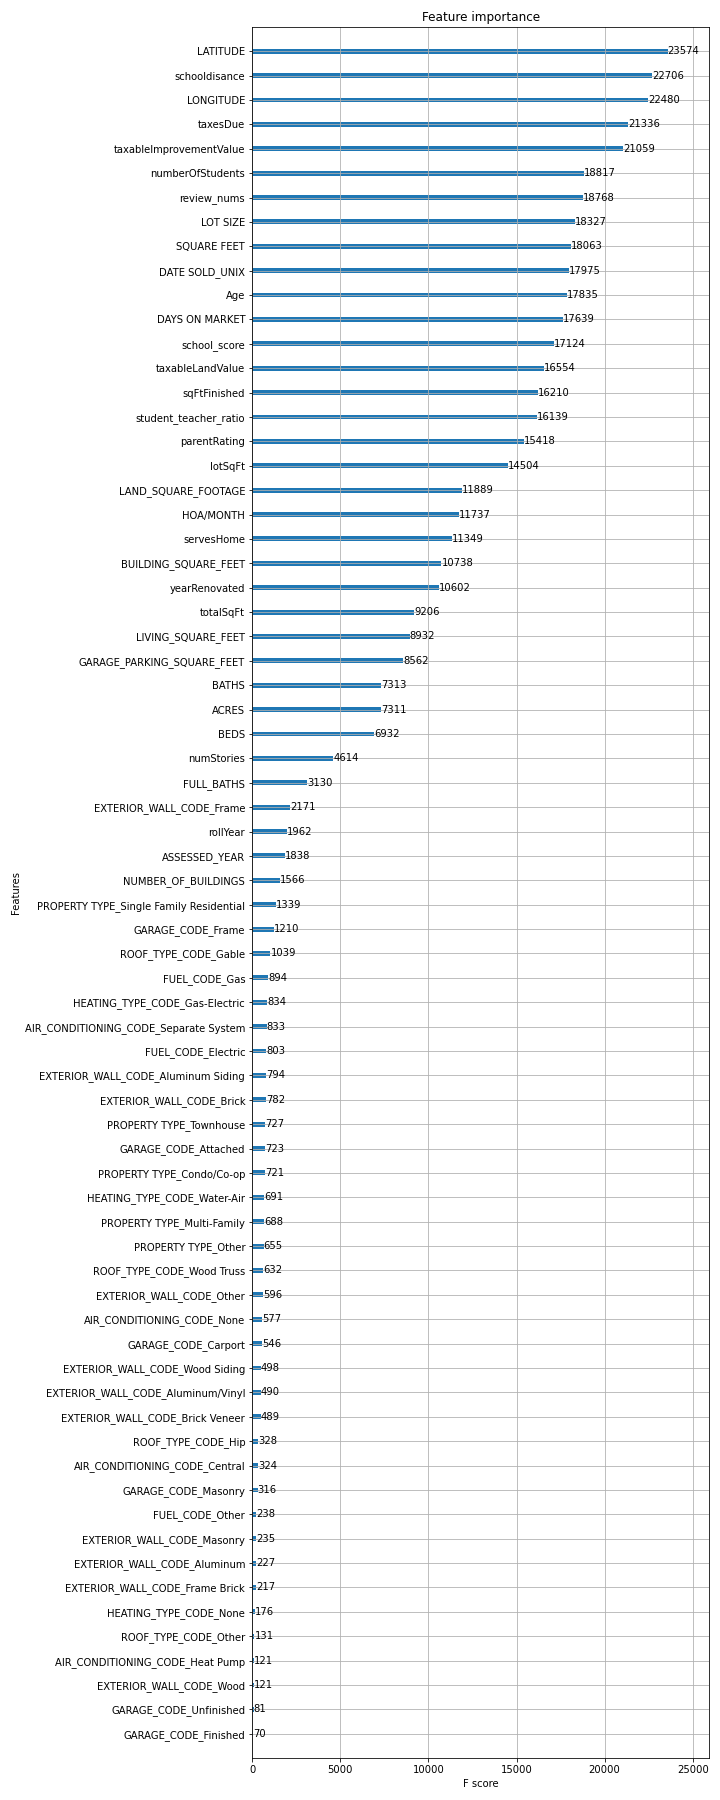
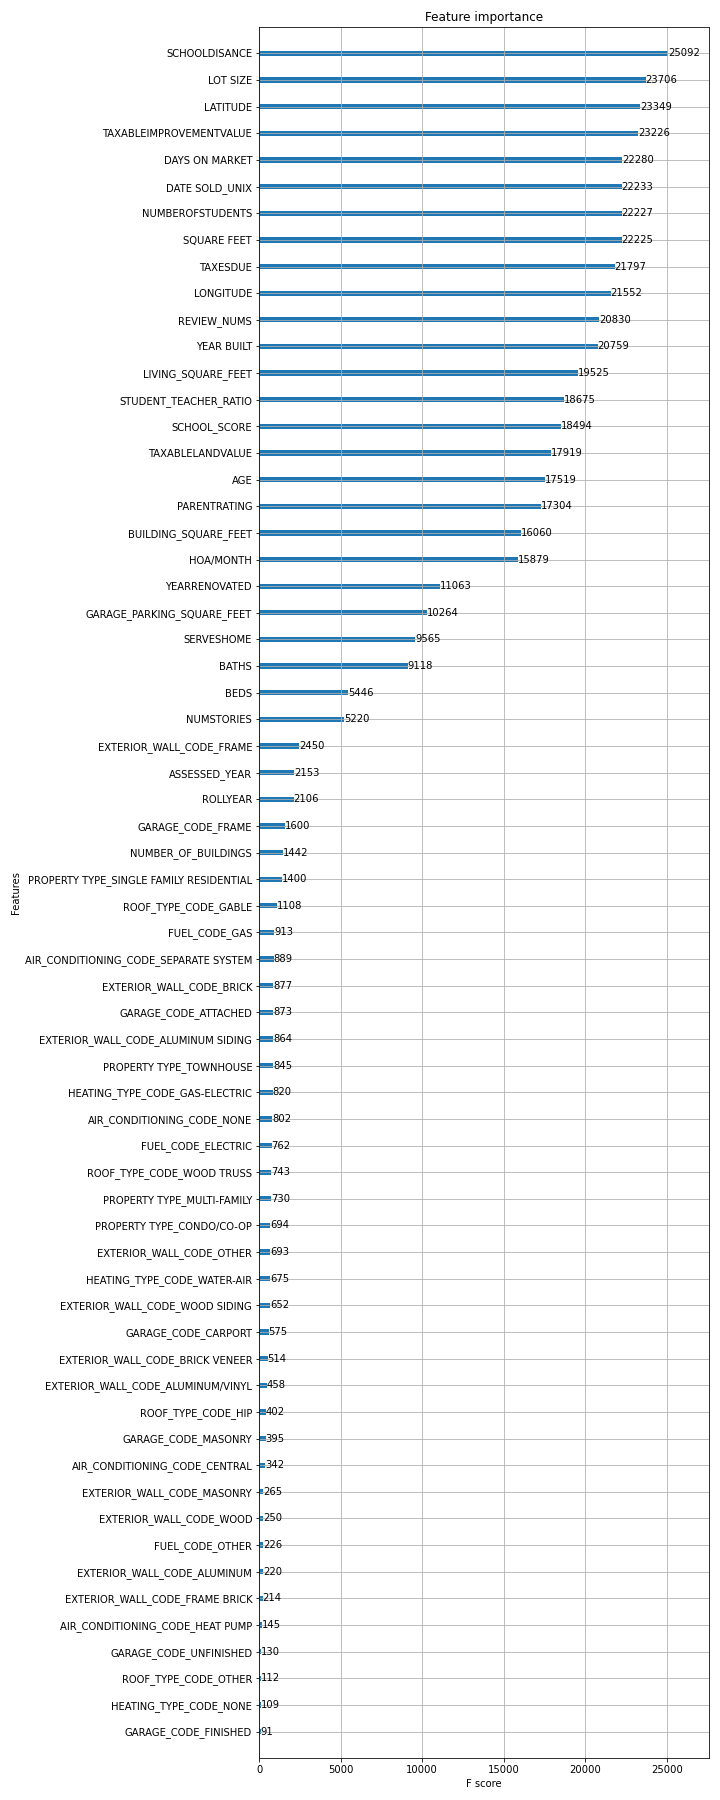
updated model

Changed region(s): [[0.0611, 0.0, 0.9778, 0.9956], [0.1222, 0.3422, 0.1528, 0.3733]]

diff --git a/ML Model.py b/ML Model.py
@@ -20,11 +20,11 @@ from sklearn.feature_selection._base import SelectorMixin
 from sklearn.feature_extraction.text import _VectorizerMixin
 
 from functions import get_feature_names
-from data.functions.selenium_funcs import mls_parse
+from data.functions.selenium_funcs import RedfinScraper
 #Tune hyper paramters?
 hyper_param_tune = False
 #%%%
-df = pd.read_csv(r'.\data\Model_Data.csv')
+df = pd.read_csv(r'.\data\Model_Data.csv', low_memory=False, thousands=',')
 
 #%%
 categorical_features = ['PROPERTY TYPE',
@@ -44,9 +44,12 @@ categorical_features = ['PROPERTY TYPE',
 
 
 #%%
-#df = df[pd.to_datetime(df['SOLD DATE']).dt.year >= 2020]
-df.drop(['Unnamed: 0'], axis=1, inplace=True)
-df = df[df['PRICE'] < 1000000]
+#df = df[(pd.to_datetime(df['DATE SOLD_UNIX'], unit='s', origin='unix').dt.year >= 2018)]
+df = df[~df['DATE SOLD_UNIX'].isna()]
+df = df[np.abs(df['PRICE']-df['PRICE'].mean()) <= (3*df['PRICE'].std())]
+#df = df[df['PRICE'] < 10000000]
+#df = df[df['PRICE'] > 10000]
+
 #%%
 
 print(df.nunique())
@@ -189,7 +192,6 @@ y_pred = model.predict(X_test)
 mse=sklearn.metrics.mean_squared_error(np.exp(y_test), np.exp(y_pred))
 rmse = mse**(1/2.0)
 print(rmse)
-
 
 #%% 
 if hyper_param_tune == False:

diff --git a/data/functions/cleaning.py b/data/functions/cleaning.py
@@ -169,7 +169,7 @@ def merge_data(clean_sales_data, clean_mls_data):
 
     model_data = model_data.convert_dtypes()
 
-    model_data.drop(['STATE OR PROVINCE', 'ZIP OR POSTAL CODE','CITY', 'URL'], axis=1, inplace=True)
+    model_data.drop(['STATE OR PROVINCE', 'ZIP OR POSTAL CODE','CITY', 'URL', 'SOLD DATE'], axis=1, inplace=True)
 
     return model_data
 
